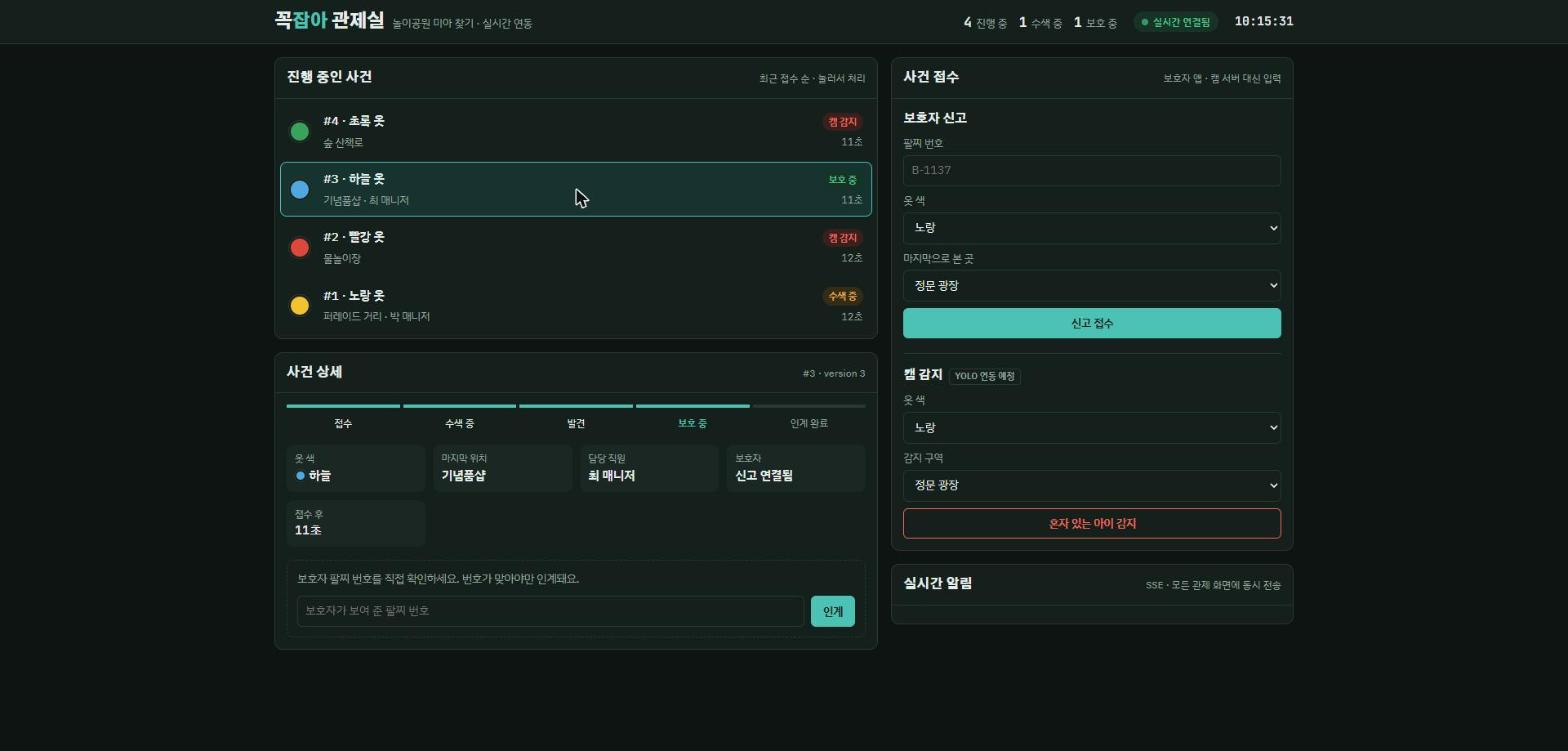
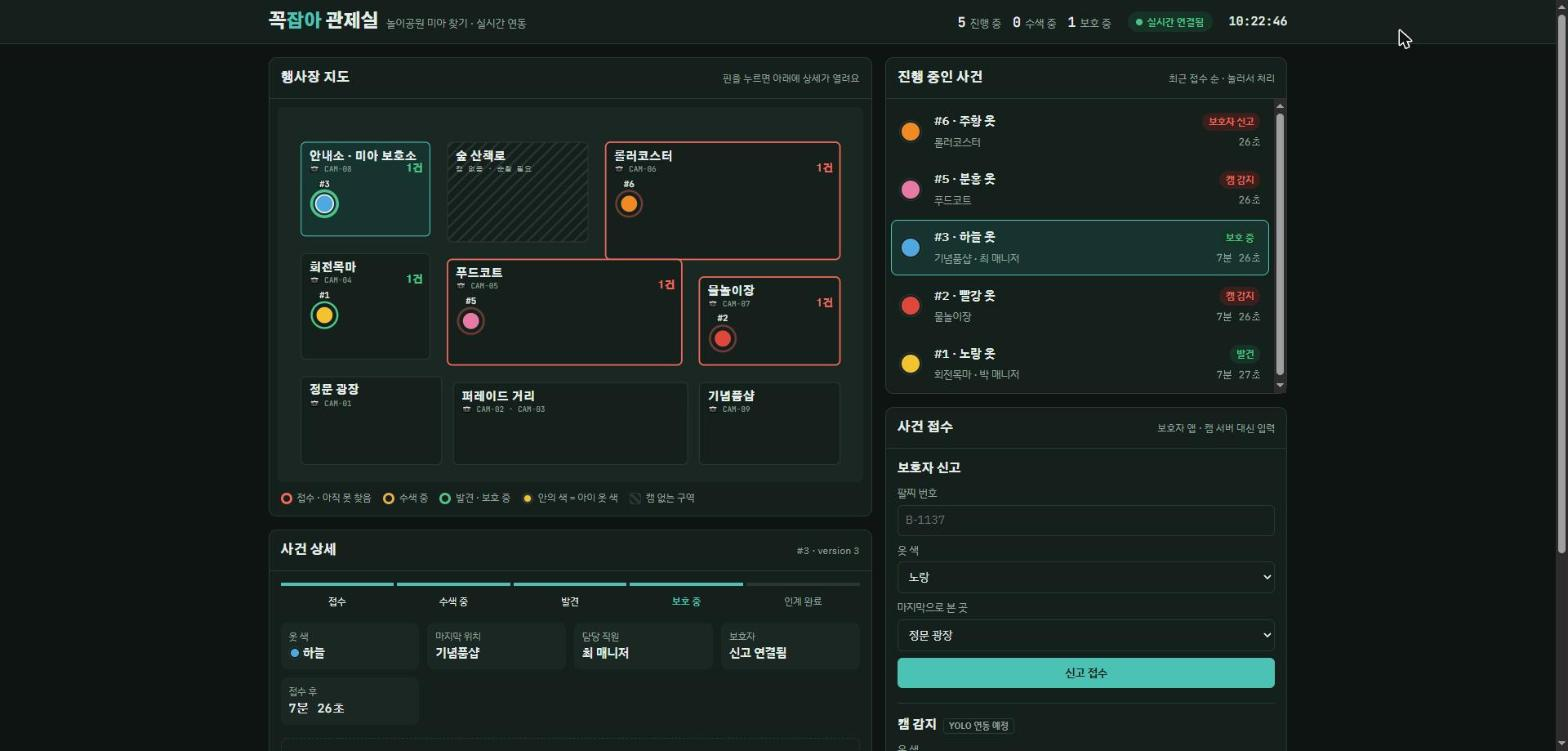
관제실에 행사장 지도 추가
- 구역별 사건 핀(옷 색 + 단계 색), SSE 변경 시 핀 이동 애니메이션
- 보호 중인 아이는 보호소 위치에 표시
- 캠 감지 접수는 캠이 있는 구역만 선택 가능
- 핀 키보드 선택과 화면 낭독기 라벨 지원
- README 스크린샷과 설계 결정·한계 갱신

diff --git a/src/main/resources/static/js/app.js b/src/main/resources/static/js/app.js
@@ -7,6 +7,19 @@
 'use strict';
 
 const ZONES = ['정문 광장', '퍼레이드 거리', '회전목마', '푸드코트', '롤러코스터', '물놀이장', '기념품샵', '숲 산책로', '안내소 · 미아 보호소'];
+// 행사장 배치도. 좌표는 지도(SVG 1000×640) 안의 위치. 캠은 "어디에 설치돼 있는지"라는 고정 정보다.
+const SHELTER_ZONE = '안내소 · 미아 보호소';
+const MAP_ZONES = [
+  { name: SHELTER_ZONE, x: 40, y: 60, w: 220, h: 160, cams: ['CAM-08'], shelter: true },
+  { name: '숲 산책로', x: 290, y: 60, w: 240, h: 170, cams: [], blind: true },
+  { name: '롤러코스터', x: 560, y: 60, w: 400, h: 200, cams: ['CAM-06'] },
+  { name: '회전목마', x: 40, y: 250, w: 220, h: 180, cams: ['CAM-04'] },
+  { name: '푸드코트', x: 290, y: 260, w: 400, h: 180, cams: ['CAM-05'] },
+  { name: '물놀이장', x: 720, y: 290, w: 240, h: 150, cams: ['CAM-07'] },
+  { name: '정문 광장', x: 40, y: 460, w: 240, h: 150, cams: ['CAM-01'] },
+  { name: '퍼레이드 거리', x: 300, y: 470, w: 400, h: 140, cams: ['CAM-02', 'CAM-03'] },
+  { name: '기념품샵', x: 720, y: 470, w: 240, h: 140, cams: ['CAM-09'] },
+];
 const COLORS = { 노랑: '#f2c230', 빨강: '#e0473c', 초록: '#3aa35b', 분홍: '#e879a6', 하늘: '#4fa8e0', 주황: '#f08a24' };
 const STEPS = [
   { label: '접수', statuses: ['DETECTED', 'REPORTED'] },
@@ -115,8 +128,106 @@ function select(id) {
 
 function render() {
   renderSummary();
+  renderMap();
   renderList();
   renderDetail();
+}
+
+/* ---------- 행사장 지도 ---------- */
+
+const SVG_NS = 'http://www.w3.org/2000/svg';
+const pinEls = new Map(); // id → 핀 <g>. 지웠다 새로 만들지 않고 재사용해야 위치 변화가 애니메이션으로 보인다.
+
+function svg(tag, attrs = {}, parent) {
+  const el = document.createElementNS(SVG_NS, tag);
+  for (const [k, v] of Object.entries(attrs)) el.setAttribute(k, v);
+  if (parent) parent.appendChild(el);
+  return el;
+}
+
+/** 구역 사각형·이름·캠 표시처럼 변하지 않는 부분은 처음에 한 번만 그린다. */
+function drawMapBase() {
+  const map = $('#map');
+  const defs = svg('defs', {}, map);
+  const hatch = svg('pattern', { id: 'hatch', width: 14, height: 14, patternUnits: 'userSpaceOnUse', patternTransform: 'rotate(45)' }, defs);
+  svg('rect', { width: 14, height: 14, fill: 'var(--surface)' }, hatch);
+  svg('line', { x1: 0, y1: 0, x2: 0, y2: 14, class: 'hatch-line' }, hatch);
+
+  for (const z of MAP_ZONES) {
+    const g = svg('g', { 'data-zone': z.name }, map);
+    svg('rect', { x: z.x, y: z.y, width: z.w, height: z.h, rx: 8,
+      class: `zone${z.shelter ? ' shelter' : ''}${z.blind ? ' blind' : ''}` }, g);
+    svg('text', { x: z.x + 14, y: z.y + 30, class: 'zname' }, g).textContent = z.name;
+    svg('text', { x: z.x + 14, y: z.y + 50, class: 'zsub' }, g).textContent =
+      z.cams.length ? `📷 ${z.cams.join(' · ')}` : '캠 없음 · 순찰 필요';
+    svg('text', { x: z.x + z.w - 12, y: z.y + 50, class: 'zcount' }, g); // 이름 줄이 아니라 캠 줄 오른쪽: 긴 구역 이름과 겹치지 않게
+  }
+  svg('g', { id: 'pins' }, map); // 핀은 구역보다 위에 그려야 하므로 마지막에 둔다
+}
+
+/**
+ * 지도에 표시할 위치. 보호 중인 아이는 마지막 발견 위치가 아니라 보호소에 있다.
+ * (서버는 발견 위치 기록을 지우지 않고 그대로 두므로, 화면에서 "지금 있는 곳"으로 바꿔 보여 준다.)
+ */
+function mapZoneOf(c) {
+  return c.status === 'SHELTERED' ? SHELTER_ZONE : c.lastSeenZone;
+}
+
+function toneOf(status) {
+  if (status === 'DETECTED' || status === 'REPORTED') return 'alert';
+  if (status === 'SEARCHING') return 'wait';
+  return 'safe';
+}
+
+function renderMap() {
+  const layer = $('#pins');
+  const byZone = new Map(MAP_ZONES.map((z) => [z.name, []]));
+  const offMap = [];
+  for (const c of [...cases.values()].sort((a, b) => a.id - b.id)) {
+    (byZone.get(mapZoneOf(c)) ?? offMap).push(c);
+  }
+
+  // 구역 테두리와 "n건" 표시: 아직 못 찾은 아이가 있는 구역은 빨간 테두리
+  for (const z of MAP_ZONES) {
+    const list = byZone.get(z.name);
+    const g = document.querySelector(`[data-zone="${CSS.escape(z.name)}"]`);
+    g.querySelector('.zone').classList.toggle('active', list.some((c) => toneOf(c.status) !== 'safe'));
+    g.querySelector('.zcount').textContent = list.length ? `${list.length}건` : '';
+  }
+
+  const seen = new Set();
+  for (const z of MAP_ZONES) {
+    byZone.get(z.name).forEach((c, i) => {
+      // 한 구역에 여러 명이면 칸을 나눠 겹치지 않게 놓는다
+      const cols = Math.max(1, Math.floor((z.w - 44) / 60));
+      const x = z.x + 40 + (i % cols) * 60;
+      const y = z.y + 105 + Math.floor(i / cols) * 60;
+      seen.add(c.id);
+
+      let pin = pinEls.get(c.id);
+      if (!pin) {
+        pin = svg('g', { class: 'pin new', tabindex: 0, role: 'button', 'data-id': c.id }, layer);
+        svg('circle', { r: 22, class: 'halo' }, pin);
+        svg('circle', { r: 15, class: 'body' }, pin);
+        svg('text', { y: -29, class: 'pid' }, pin).textContent = `#${c.id}`;
+        pin.style.transform = `translate(${x}px, ${y}px)`; // 새 핀은 미끄러지지 않고 제자리에 나타난다
+        pinEls.set(c.id, pin);
+      }
+      pin.setAttribute('class', `pin ${toneOf(c.status)}${c.id === selectedId ? ' selected' : ''}${pin.classList.contains('new') ? ' new' : ''}`);
+      pin.setAttribute('aria-label', `#${c.id} ${c.clothingColor} 옷, ${c.statusLabel}, ${mapZoneOf(c)}`);
+      pin.querySelector('.body').setAttribute('fill', colorOf(c.clothingColor));
+      pin.style.transform = `translate(${x}px, ${y}px)`;
+    });
+  }
+
+  // 인계가 끝나 목록에서 빠진 사건의 핀은 지운다
+  for (const [id, pin] of pinEls) {
+    if (!seen.has(id)) { pin.remove(); pinEls.delete(id); }
+  }
+
+  $('#mapSub').textContent = offMap.length
+    ? `지도 밖 위치 ${offMap.length}건은 목록에서 확인하세요`
+    : '핀을 누르면 아래에 상세가 열려요';
 }
 
 function renderSummary() {
@@ -151,7 +262,7 @@ function renderDetail() {
   if (!c) {
     $('#detailSub').textContent = '';
     delete box.dataset.sig;
-    box.innerHTML = '<p class="empty">왼쪽 목록에서 사건을 고르세요.</p>';
+    box.innerHTML = '<p class="empty">지도의 핀이나 오른쪽 목록에서 사건을 고르세요.</p>';
     return;
   }
   // 같은 사건·같은 version이면 다시 그리지 않는다. 입력 중인 칸이 지워지지 않게.
@@ -167,7 +278,7 @@ function renderDetail() {
     </ol>
     <dl class="facts">
       <div><dt>옷 색</dt><dd><span class="swatch" style="display:inline-block;width:14px;height:14px;vertical-align:-2px;background:${colorOf(c.clothingColor)}"></span> ${esc(c.clothingColor)}</dd></div>
-      <div><dt>마지막 위치</dt><dd>${esc(c.lastSeenZone)}</dd></div>
+      <div><dt>${['FOUND', 'SHELTERED', 'HANDED_OVER'].includes(c.status) ? '발견 위치' : '마지막으로 본 위치'}</dt><dd>${esc(c.lastSeenZone)}</dd></div>
       <div><dt>담당 직원</dt><dd>${c.assignedStaff ? esc(c.assignedStaff) : '아직 없음'}</dd></div>
       <div><dt>보호자</dt><dd>${c.guardianLinked ? '신고 연결됨' : '<span style="color:var(--alert)">미연결</span>'}</dd></div>
       <div><dt>접수 후</dt><dd class="mono" data-since="${c.createdAt}"></dd></div>
@@ -230,6 +341,20 @@ $('#caseList').addEventListener('click', (e) => {
   if (btn) select(Number(btn.dataset.id));
 });
 
+// 지도 핀: 마우스 클릭과 키보드(Enter·Space) 둘 다 받는다
+$('#map').addEventListener('click', (e) => {
+  const pin = e.target.closest('.pin');
+  if (pin) select(Number(pin.dataset.id));
+});
+$('#map').addEventListener('keydown', (e) => {
+  const pin = e.target.closest('.pin');
+  if (pin && (e.key === 'Enter' || e.key === ' ')) {
+    e.preventDefault();
+    select(Number(pin.dataset.id));
+  }
+});
+$('#map').addEventListener('animationend', (e) => e.target.classList?.remove('new'));
+
 // 상세 영역의 폼은 매번 새로 그려지므로, 부모 하나에 이벤트를 걸어 둔다 (이벤트 위임).
 $('#detail').addEventListener('submit', async (e) => {
   e.preventDefault();
@@ -275,8 +400,8 @@ function esc(s) {
   return String(s ?? '').replace(/[&<>"']/g, (ch) => ({ '&': '&amp;', '<': '&lt;', '>': '&gt;', '"': '&quot;', "'": '&#39;' }[ch]));
 }
 function colorOf(name) { return COLORS[name] ?? '#9aa5a1'; }
-function zoneOptions(selected) {
-  return ZONES.map((z) => `<option${z === selected ? ' selected' : ''}>${esc(z)}</option>`).join('');
+function zoneOptions(selected, zones = ZONES) {
+  return zones.map((z) => `<option${z === selected ? ' selected' : ''}>${esc(z)}</option>`).join('');
 }
 
 function setConn(live) {
@@ -322,7 +447,12 @@ function tick() {
 document.querySelectorAll('[data-colors]').forEach((s) => {
   s.innerHTML = Object.keys(COLORS).map((c) => `<option>${c}</option>`).join('');
 });
-document.querySelectorAll('[data-zones]').forEach((s) => { s.innerHTML = zoneOptions(); });
+// 캠 감지는 캠이 설치된 구역에서만 일어날 수 있다. 숲 산책로처럼 캠이 없는 곳은 고를 수 없게 한다.
+const CAM_ZONES = MAP_ZONES.filter((z) => z.cams.length && !z.shelter).map((z) => z.name);
+document.querySelectorAll('[data-zones]').forEach((s) => {
+  s.innerHTML = zoneOptions(undefined, s.dataset.zones === 'with-cam' ? CAM_ZONES : ZONES);
+});
+drawMapBase();
 setInterval(tick, 1000);
 tick();
 connect();

diff --git a/src/main/resources/static/css/app.css b/src/main/resources/static/css/app.css
@@ -81,6 +81,43 @@ select, input[type=text] { border: 1px solid var(--line); background: var(--surf
 .chip.FOUND, .chip.SHELTERED { color: var(--safe); background: var(--safe-soft); }
 .chip.HANDED_OVER { color: var(--muted); background: var(--ground); }
 
+/* 행사장 지도 */
+.map-wrap { padding: 10px; }
+svg.map { width: 100%; height: auto; display: block; border-radius: 6px; background: var(--ground); }
+svg.map .zone { fill: var(--surface); stroke: var(--line); stroke-width: 1.5; transition: fill .3s, stroke .3s; }
+svg.map .zone.shelter { fill: var(--accent-soft); stroke: var(--accent); }
+svg.map .zone.blind { fill: url(#hatch); }
+svg.map .zone.active { stroke: var(--alert); stroke-width: 2.5; }
+svg.map .zname { fill: var(--ink); font-family: var(--display); font-weight: 800; font-size: 20px; }
+svg.map .zsub { fill: var(--muted); font-family: var(--mono); font-size: 13px; }
+svg.map .zcount { fill: var(--alert); font-family: var(--display); font-weight: 800; font-size: 18px; text-anchor: end; }
+svg.map .zone:not(.active) ~ .zcount { fill: var(--safe); } /* 모두 찾은 구역의 건수는 초록 */
+svg.map .hatch-line { stroke: var(--line); stroke-width: 6; }
+
+/* 핀: 위치가 바뀌면 transform이 바뀌고, transition 덕분에 미끄러지듯 이동한다 */
+svg.map .pin { cursor: pointer; transition: transform .9s cubic-bezier(.3, .7, .2, 1); outline: none; }
+svg.map .pin .body { stroke: var(--surface); stroke-width: 2.5; }
+svg.map .pin .halo { fill: none; stroke-width: 3.5; }
+svg.map .pin.alert .halo { stroke: var(--alert); animation: ping 1.4s ease-in-out infinite; }
+svg.map .pin.wait .halo { stroke: var(--wait); }
+svg.map .pin.safe .halo { stroke: var(--safe); }
+svg.map .pin .pid { fill: var(--ink); font-family: var(--mono); font-size: 15px; font-weight: 600; text-anchor: middle; paint-order: stroke; stroke: var(--surface); stroke-width: 4px; }
+svg.map .pin.selected .body { stroke: var(--ink); }
+svg.map .pin.selected .halo { stroke-width: 5; }
+svg.map .pin:focus-visible .halo { stroke: var(--accent); stroke-width: 5; }
+svg.map .pin.new { animation: pop .5s ease-out; }
+@keyframes ping { 50% { opacity: .25; } }
+@keyframes pop { from { opacity: 0; } to { opacity: 1; } }
+
+.map-legend { display: flex; flex-wrap: wrap; gap: 6px 14px; font-size: .76rem; color: var(--muted); padding: 0 14px 12px; }
+.map-legend span { display: inline-flex; align-items: center; gap: 6px; }
+.lg { width: 14px; height: 14px; border-radius: 50%; border: 3px solid; display: inline-block; }
+.lg.alert { border-color: var(--alert); }
+.lg.wait { border-color: var(--wait); }
+.lg.safe { border-color: var(--safe); }
+.lg.fill { border-color: var(--line); background: #f2c230; }
+.lg.hatch { border-radius: 3px; border: 1px solid var(--line); background: repeating-linear-gradient(45deg, var(--line) 0 3px, var(--surface) 3px 7px); }
+
 /* 사건 상세 */
 .detail { padding: 14px; display: grid; gap: 16px; }
 .steps { list-style: none; margin: 0; padding: 0; display: grid; grid-template-columns: repeat(5, 1fr); gap: 4px; counter-reset: s; }

diff --git a/src/main/resources/static/index.html b/src/main/resources/static/index.html
@@ -29,21 +29,35 @@
 
 <main class="wrap main">
   <div class="col">
-    <section class="panel" aria-labelledby="listTitle">
-      <header><h2 id="listTitle">진행 중인 사건</h2><small>최근 접수 순 · 눌러서 처리</small></header>
-      <ul id="caseList" class="cases"></ul>
-      <p id="emptyList" class="empty">진행 중인 사건이 없어요. 오른쪽에서 신고나 캠 감지를 넣어 보세요.</p>
+    <section class="panel" aria-labelledby="mapTitle">
+      <header><h2 id="mapTitle">행사장 지도</h2><small id="mapSub">핀을 누르면 아래에 상세가 열려요</small></header>
+      <div class="map-wrap">
+        <svg id="map" class="map" viewBox="0 0 1000 640" role="group" aria-label="행사장 구역별 진행 중인 사건"></svg>
+      </div>
+      <div class="map-legend" aria-hidden="true">
+        <span><i class="lg alert"></i>접수 · 아직 못 찾음</span>
+        <span><i class="lg wait"></i>수색 중</span>
+        <span><i class="lg safe"></i>발견 · 보호 중</span>
+        <span><i class="lg fill"></i>안의 색 = 아이 옷 색</span>
+        <span><i class="lg hatch"></i>캠 없는 구역</span>
+      </div>
     </section>
 
     <section class="panel" aria-labelledby="detailTitle">
       <header><h2 id="detailTitle">사건 상세</h2><small id="detailSub"></small></header>
       <div id="detail" class="detail">
-        <p class="empty">왼쪽 목록에서 사건을 고르세요.</p>
+        <p class="empty">지도의 핀이나 오른쪽 목록에서 사건을 고르세요.</p>
       </div>
     </section>
   </div>
 
   <div class="col">
+    <section class="panel" aria-labelledby="listTitle">
+      <header><h2 id="listTitle">진행 중인 사건</h2><small>최근 접수 순 · 눌러서 처리</small></header>
+      <ul id="caseList" class="cases"></ul>
+      <p id="emptyList" class="empty">진행 중인 사건이 없어요. 아래에서 신고나 캠 감지를 넣어 보세요.</p>
+    </section>
+
     <section class="panel" aria-labelledby="intakeTitle">
       <header><h2 id="intakeTitle">사건 접수</h2><small>보호자 앱 · 캠 서버 대신 입력</small></header>
       <div class="intake">
@@ -57,7 +71,7 @@
         <form id="detectForm" class="form">
           <h3>캠 감지 <span class="tag">YOLO 연동 예정</span></h3>
           <label>옷 색 <select name="clothingColor" data-colors></select></label>
-          <label>감지 구역 <select name="zone" data-zones></select></label>
+          <label>감지 구역 <select name="zone" data-zones="with-cam"></select></label>
           <button class="btn warn" type="submit">혼자 있는 아이 감지</button>
         </form>
       </div>

diff --git a/README.md b/README.md
@@ -6,10 +6,11 @@
 
 ![관제실 화면](docs/control-room.jpg)
 
-> 탭 두 개로 관제실을 열고 한쪽에서 "발견 처리"를 누르면, 다른 탭의 목록·현황·알림이 1초 안에 함께 바뀝니다.
+> 탭 두 개로 관제실을 열고 한쪽에서 "발견 처리"를 누르면, 다른 탭의 지도 핀·목록·현황·알림이 1초 안에 함께 바뀝니다.
 
 ## 주요 기능
 
+- **행사장 지도**: 진행 중인 사건이 구역별 핀으로 표시됩니다. 핀 안쪽 색은 아이 옷 색, 테두리는 진행 단계(빨강 접수 · 주황 수색 · 초록 발견/보호)입니다. 발견 위치가 바뀌거나 보호소로 옮기면 핀이 실시간으로 이동합니다.
 - **두 갈래 접수**: 보호자 신고(팔찌 번호 + 옷 색 + 마지막 위치), 캠 감지(혼자 있는 아이를 카메라가 발견)
 - **단계 관리**: 접수 → 수색 중 → 발견 → 보호 중 → 인계 완료. 단계를 건너뛸 수 없습니다.
 - **본인 확인 인계**: 보호자가 보여 준 팔찌 번호가 신고 때 등록한 번호와 같을 때만 인계됩니다.
@@ -115,6 +116,9 @@ JPA `@Version`만으로는 정확히 동시에 들어온 요청만 잡힙니다.
 **8. 화면은 규칙을 판단하지 않는다.**
 다음에 누를 수 있는 버튼은 서버가 준 `nextSteps`로 정합니다. 사용자가 입력한 값은 이스케이프한 뒤 그려 XSS를 막습니다.
 
+**9. 지도에는 진짜 데이터만 그린다.**
+아이의 실시간 좌표나 이동 경로는 서버에 없으므로 지어내지 않고, 사건의 구역 정보만 핀으로 보여 줍니다. 보호 중인 아이는 기록된 발견 위치가 아니라 보호소에 표시합니다. 캠이 없는 구역(숲 산책로)은 캠 감지 접수에서 고를 수 없습니다. 핀은 지웠다 새로 그리지 않고 재사용하며 위치만 바꿔서, 이동이 애니메이션으로 보입니다. 키보드(Tab · Enter)와 화면 낭독기로도 핀을 고를 수 있습니다.
+
 ## 문제 해결 기록
 
 **SSE 연결 때문에 서버 종료가 30초씩 멈춤**
@@ -169,6 +173,7 @@ JPA `@Version`만으로는 정확히 동시에 들어온 요청만 잡힙니다.
 - **SSE 연결 목록을 서버 메모리에 둡니다.** 서버가 한 대일 때만 맞게 동작합니다. 여러 대로 늘리면 Redis Pub/Sub 등으로 서버끼리 이벤트를 나눠야 합니다.
 - **알림 전송이 요청 스레드에서 동기로 실행됩니다.** 연결된 화면이 많아지면 응답이 느려질 수 있어 비동기 전송이 필요합니다.
 - **캠 감지는 화면에서 수동으로 넣습니다.** 다음 단계로 Python(YOLO) 감지 서버가 `POST /api/cases/detections`를 호출하도록 연결할 계획입니다. 이 시스템은 얼굴 인식 없이 옷 색·위치만 사용하도록 설계했습니다.
+- **구역 목록과 캠 배치가 화면 코드에만 있습니다.** 서버는 구역 이름을 검사하지 않아 API로 지도에 없는 구역을 넣을 수 있습니다(화면은 "지도 밖 위치"로 따로 알려 줍니다). 구역·캠을 DB 테이블로 옮겨 서버가 검증하고, 캠 감지는 캠이 있는 구역에서만 받도록 해야 합니다.
 - **개인정보 보관 기간 정책이 없습니다.** 인계가 끝난 사건 기록을 얼마나 보관하고 언제 지울지 정해야 합니다.
 - 화면의 경과 시간 표시는 서버와 브라우저가 같은 시간대(Asia/Seoul)라고 가정합니다.
 
